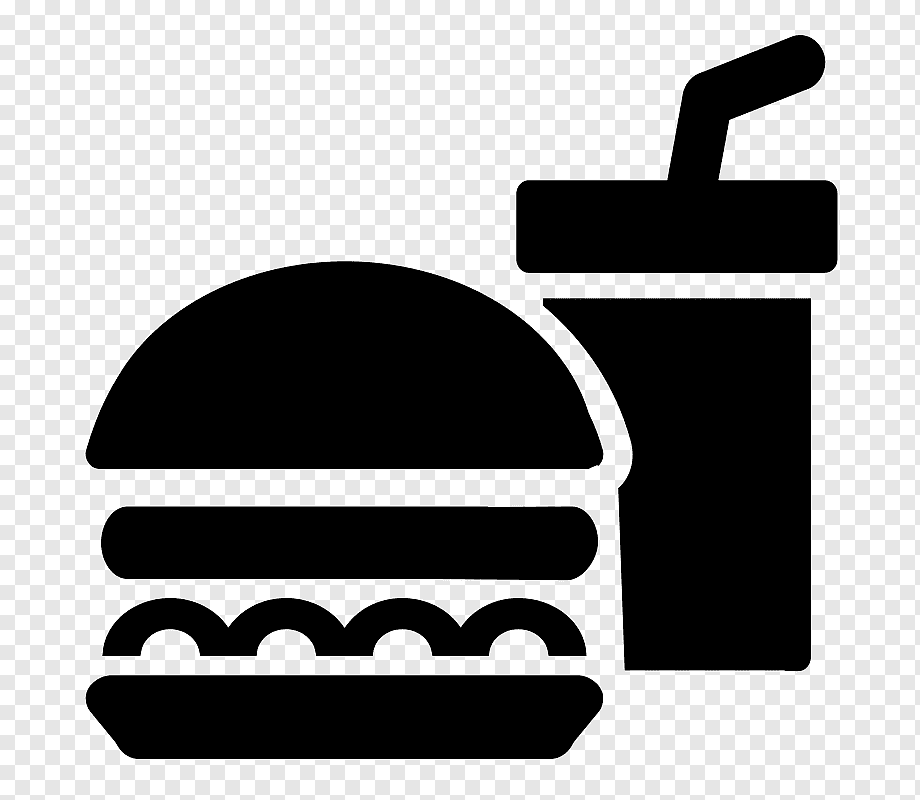
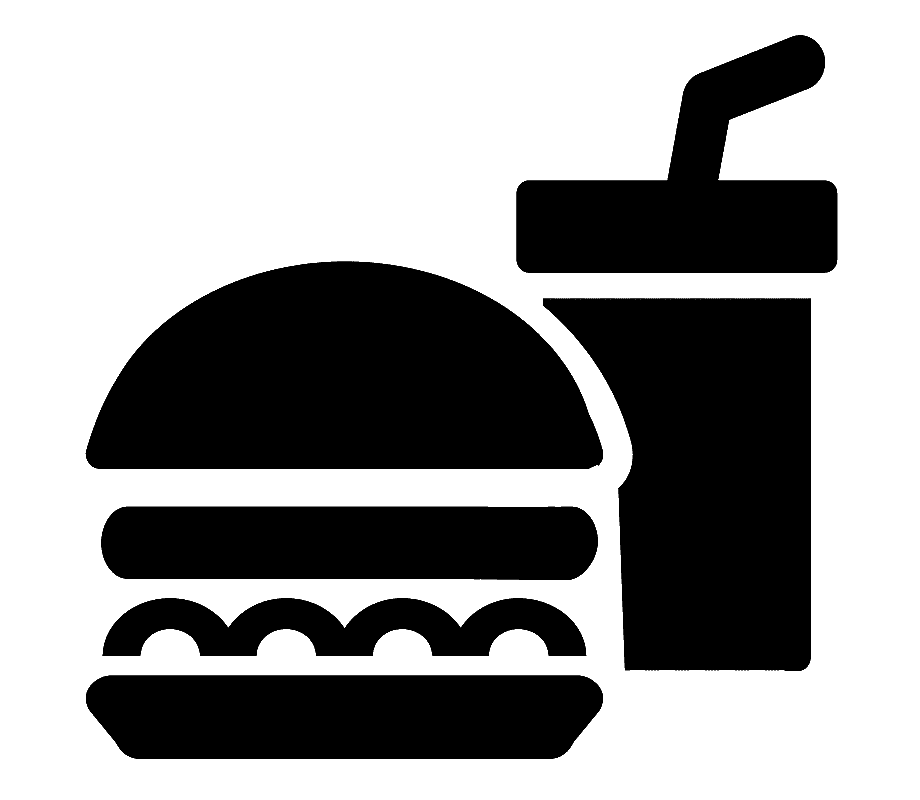
Bilder Skalierung + kleine Fixes

Changed region(s): [[0.0, 0.0, 1.0, 1.0]]

diff --git a/css/profil_css/profil_anzeigen.css b/css/profil_css/profil_anzeigen.css
@@ -5,6 +5,7 @@
 .profil-preview{
 
     margin: 10px;
+    height: 350px;
     border-style: solid;
     display: flex;
     flex-wrap: nowrap;
@@ -14,11 +15,19 @@
 
 }
 
+.profil-preview img {
+    max-width: 98%;
+    height: auto;
+    max-height: 350px;
+    object-fit: contain;
+}
+
 .profil-preview-body {
     display: flex;
     flex-wrap: nowrap;
     flex-direction: row;
     justify-content: space-evenly;
+    align-items: center;
 }
 
 .users .profil-preview{
@@ -34,13 +43,15 @@
 
 
 .profil-preview-pic {
-    margin: 0px 5px;
-    width: 50%;
+    display: flex;
+    flex-direction: column;
+    justify-content: center;
+    width: 40%;
 }
 
 .profil-preview-info {
     margin: 0px 5px;
-    width: 50%;
+    width: 60%;
 }
 
 #head-title{

diff --git a/css/rezept_css/rezeptPreview.css b/css/rezept_css/rezeptPreview.css
@@ -3,10 +3,11 @@
 }
 
 
-.recipe-preview{
+.recipe-preview {
     margin: 10px;
     border-style: solid;
     border-width: 1px;
+    height: 350px;
 
     display: flex;
     flex-direction: row;
@@ -18,9 +19,13 @@
     border-color: #ABD1C7;
 }
 
+
 .recipe-preview img {
-    width: 100%;
-    height: 100%;
+    height: auto;
+    width: auto;
+    object-fit: contain;
+    max-width: 98%;
+    max-height: 98%;
 }
 
 .recipe-preview:hover{
@@ -32,6 +37,9 @@
 }
 
 .recipe-preview-pic {
+    display: flex;
+    flex-direction: column;
+    justify-content: center;
     width: auto;
     max-width: 40%;
 }

diff --git a/css/rezept_css/rezeptAnsicht.css b/css/rezept_css/rezeptAnsicht.css
@@ -35,6 +35,20 @@ h4 {
     justify-content: space-between;
 }
 
+.recipe-preview-image-container {
+    display: flex;
+    flex-direction: column;
+    justify-content: center;
+    max-height: 500px;
+}
+
+.recipe-preview-image-container img {
+    max-width: 98%;
+    height: auto;
+    max-height: 500px;
+    object-fit: contain;
+}
+
 #creator{
     margin-left: 20px;
 }

diff --git a/externFiles/Navigation.php b/externFiles/Navigation.php
@@ -79,9 +79,9 @@ $sess = $_SESSION['userid'];
             </div>
 
             <div class="modal-body">
-                <form action="SucheFilter.php" method="post">
+                <form id="filterSuche" action="SucheFilter.php" method="post">
 
-
+                    Kategorien:<br/>
                     <label for="fleisch">
                         <input type="checkbox" id="fleisch" name="fleisch" value="fleisch">
                         <span>Fleisch</span>
@@ -94,16 +94,20 @@ $sess = $_SESSION['userid'];
                         <input type="checkbox" id="vegan" name="vegan" value="vegan">
                         <span>Vegan</span>
                     </label>
+                    <br/><br/>
+                    Zutaten (max 1 pro Feld):<br/>
+                    <input type="text" id = "zutat" name="zutat "placeholder="Zutat eingeben...">
                     <br>
-                    <input type="text" id = "zutat" name="zutat"/>
-                    <br>
-                    <input type="text" id="zutat2" name="zutat2" />
+                    <input type="text" id="zutat2" name="zutat2" "placeholder="Zutat eingeben...">
+
+
                     <p>
-                        max Dauer:
+                        max Dauer:<br/>
                         <input type="number" name="zeit"/>
                         Minuten
                     </p>
                     <p>
+
                         max Schwierigkeit:
                         <select name = "schwierigkeit">
                             <option value="Auswahl">Auswahl</option>
@@ -113,14 +117,16 @@ $sess = $_SESSION['userid'];
                             <option value="">Sehr Schwer</option>
                         </select>
                     </p>
+                    Suchbegriff:<br/>
+                    <input type="text" placeholder="Suchenbegriff eingeben..." name="suchbegriff">
+                    <br/>
 
-                    <input type="text" placeholder="Suchen..." name="suchbegriff">
 
-                    <button class="modalApplyBtn" type="submit">Suchen</button>
 
                 </form>
             </div>
             <div class="modal-footer">
+                <button class="modalCloseBtn" type="submit" form="filterSuche">Suchen</button>
                 <button class="modalCloseBtn" type="button" onclick="recipeModalClose()">Abbrechen</button>
             </div>
         </div>

diff --git a/externFiles/rezeptAnsicht.php b/externFiles/rezeptAnsicht.php
@@ -51,8 +51,10 @@ $referer = $_SERVER['HTTP_REFERER'];
     }
 
     if ($sess) {
+        $statement = $pdo->query("SELECT uid FROM rezepte WHERE rid = '$rezeptID' ");
+        $ersteller = $statement->fetch();
         if (isset($_POST['bewertung'])) {
-            if ($sess != $uid) {
+            if ($sess != $ersteller['uid']) {
                 $fetch = $pdo->query("SELECT COUNT(*) FROM bewertung WHERE BNutzer = '$sess' AND rezeptID = '$rezeptID'");
                 $bewertungscheck = $fetch->fetch();
                 $bewertung = $_POST['bewertung'];

diff --git a/externFiles/RezeptPreview.php b/externFiles/RezeptPreview.php
@@ -66,7 +66,7 @@ echo '<a href="RezeptAnsicht.php?id='.$rezeptID.'">';
                     ('.$bewertung.')             
                     </form>
                 </div>';
-                echo 'Dauer: '.$dauer.' Minuten<br/>';
+                echo '<br/><br/>Dauer: '.$dauer.' Minuten<br/>';
                 echo 'Schwierigkeit: '.$schwierigkeit.'<br/><br/>';
                 echo    nl2br($beschreibung);
                 echo '<br/><br/>';
